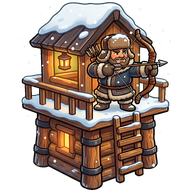
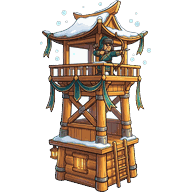
v1.5.4: красота — новый элегантный лучник (бурятская крыша, натянутый лук), спрайты уровней 2–3 всех башен на поле (визуальная прогрессия апгрейда), новая земля берега Байкала, поле перешло с векторных башен на спрайты с фолбэком, все ассеты ≤12 КБ

diff --git a/index.html b/index.html
@@ -186,7 +186,7 @@ button, .tcard { transition:transform .09s ease-out; }
     <button id="shareBtn"></button>
   </div>
   <div id="ovRecord"></div>
-  <div id="ver">v1.5.3</div>
+  <div id="ver">v1.5.4</div>
 </div>
 
 <script type="module">
@@ -1010,10 +1010,26 @@ function drawTowerFig(tw,t){
     ctx.beginPath(); ctx.arc(x-CS*0.18+l*CS*0.18, y+CS*0.42, 3,0,7); ctx.fill(); ctx.stroke();
   }
 }
+// спрайты башен: 3 типа × 3 уровня (фолбэк — векторная отрисовка ниже)
+const TIMG={};
+['archer','frost','fire'].forEach(tp=>{
+  TIMG[tp]=[1,2,3].map(l=>{ const im=new Image(); im.src='./assets/'+tp+(l===1?'':l)+'.png'; return im; });
+});
 function drawTowerAt(x,y,type,lvl,t,k,born,ang,alpha){
   const s=CS*0.95;
   const pop = born>0 ? 1+Math.sin(born/0.35*Math.PI)*0.25 : 1;
   const breathe=Math.sin(t*2+x*0.03+y*0.02)*0.02;
+  const spr=TIMG[type]&&TIMG[type][Math.min(lvl,3)-1];
+  if(spr && spr.complete && spr.naturalWidth){
+    ctx.save(); ctx.globalAlpha=alpha;
+    ctx.fillStyle='rgba(0,0,0,.35)';
+    ctx.beginPath(); ctx.ellipse(x,y+s*0.3,s*0.44,s*0.16,0,0,7); ctx.fill();
+    const sc=(pop+breathe)*(1+k*0.07);
+    const sz=CS*1.22*sc;
+    ctx.drawImage(spr, x-sz/2, y+s*0.34-sz, sz, sz);
+    ctx.restore();
+    return;
+  }
   const lw=Math.max(2,s*0.06);
   ctx.save(); ctx.globalAlpha=alpha;
   // тень + каменный помост

diff --git a/sw.js b/sw.js
@@ -1,5 +1,5 @@
 // Оборона Байкала — минимальный SW. Кэш версионируется: смена имени = полное обновление.
-const CACHE = 'baikal-v1.5.3';
+const CACHE = 'baikal-v1.5.4';
 const PRECACHE = ['./', './index.html', './strings.js', './manifest.json'];
 
 self.addEventListener('install', e => {